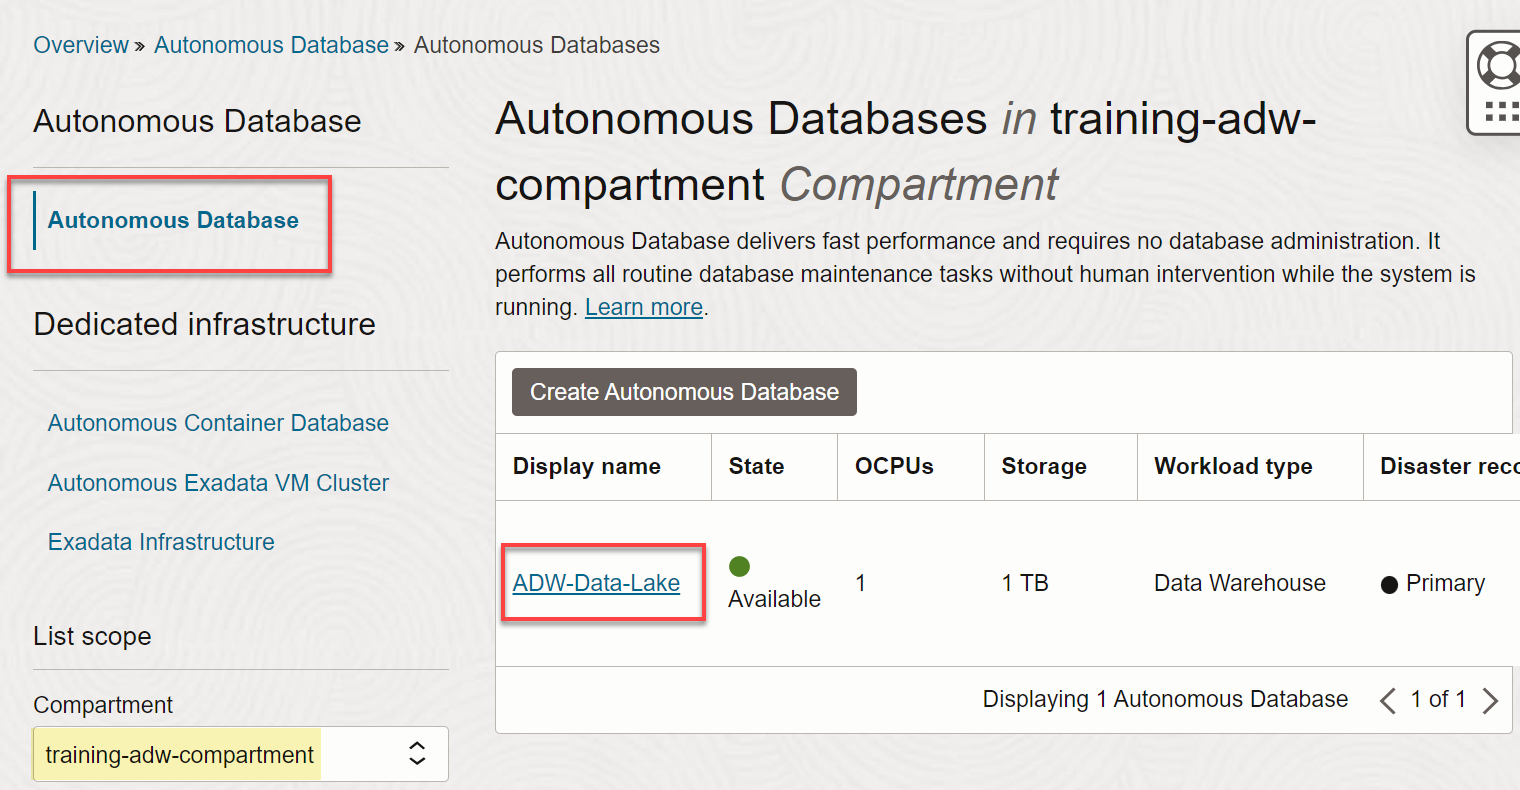
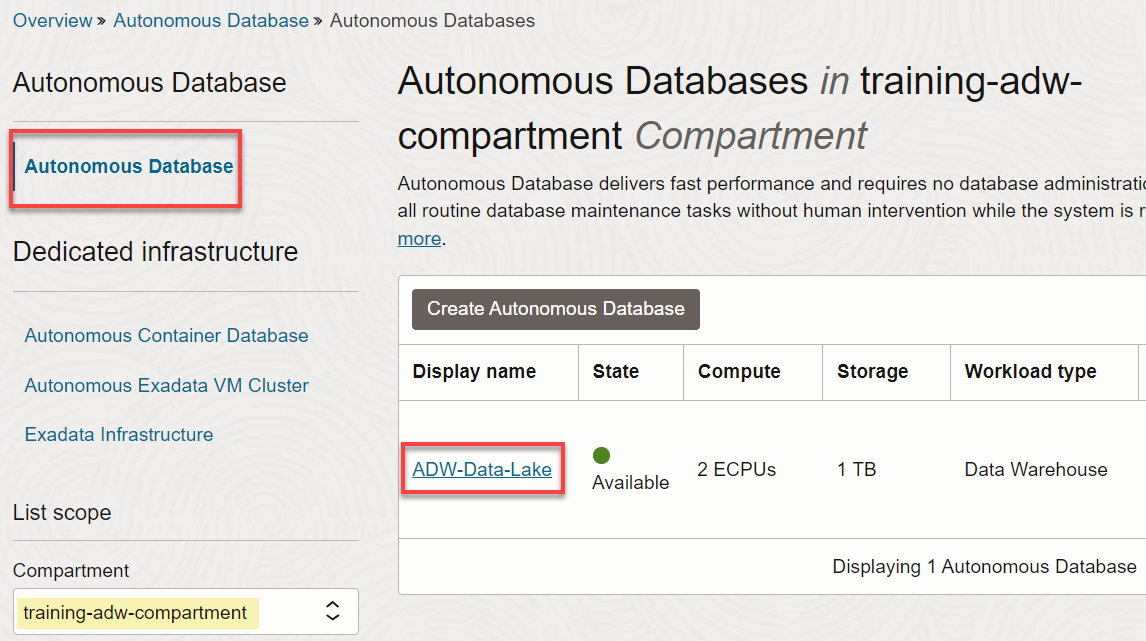
workshop # 3 ADB set up
and a couple of minor typos in workshops 1 and 2

diff --git a/shared/adw-data-lake/build-data-lake/setup-workshop-environment/setup-workshop-environment.md b/shared/adw-data-lake/build-data-lake/setup-workshop-environment/setup-workshop-environment.md
@@ -117,20 +117,37 @@ A Cloud Administrator can optionally create a compartment in your tenancy to hel
 
        ![The selected Shared Infrastructure option of the "Choose a deployment type" section is displayed and highlighted.](./images/adb-deployment-type.png " ")
 
-7. In the **Configure the database** section, specify the following:
+<!--- This is a comment. --->
+
+<!---7. In the **Configure the database** section, specify the following:
+
+       * **Always Free:** Disabled. If your Cloud Account is an Always Free account, you can select this option to create an Always Free autonomous database.
+       * **Choose database version:** **`19c`**.
+       * **OCPU count:** **`1`**.
+       * **OCPU auto scaling:** Select this checkbox. This allows the system to automatically use up to three times more CPU and IO resources to meet the workload demand.
+       * **Storage (TB):** **`1`** (TB).
+       * **Storage auto scaling:** Leave the checkbox unchecked.
+
+       ![The completed "Configure the database" section is displayed.](./images/adb-configure-db.png " ")
+
+       >**Note:** If you are using a Free Trial or Always Free account, and you want to use Always Free Resources, you need to be in a region where Always Free Resources are available. You can see your current default **region** in the top, right hand corner of the page. --->
+
+7. In the **Configure the database** section, accept the default selections as follows:
 
        * **Always Free:** An Always Free database is especially useful for development and trying new features. You can deploy an Always Free instance in an Always Free account or a paid account. The only option you can specify in an Always Free database is the database version.  For this lab, we recommend that you leave the **Always Free** option disabled unless you are in an Always Free account.
        * **Choose database version:** Accept the default selection.
        * **ECPU count:** **`2`**.
-       * **Complete auto scaling:** Leave the checkbox checked (default).
+       * **Compute auto scaling:** Leave the checkbox checked (default).
        * **Storage (TB):** **`1`** (TB).
        * **Storage auto scaling:** Leave the checkbox unchecked (default).
 
-       ![The completed "Configure the database" section is displayed.](./images/adb-configure-db.png " ")
+       ![The completed "Configure the database" section is displayed.](./images/adb-configure-db-ecpu.png " ")
 
-       >**Note:** If you are using a Free Trial or Always Free account, and you want to use Always Free Resources, you need to be in a region where Always Free Resources are available. You can see your current default **region** in the top, right hand corner of the page.
+8. In the **Backup retention** section, you can either accept the default value or specify your own preferred backup retention days value. Accept the default **60** days default value.
 
-8. In the **Create administrator credentials** section, specify the following:
+       ![The Backup retention section is displayed.](./images/backup-retention.png " ")
+
+9. In the **Create administrator credentials** section, specify the following:
 
        * **Username:** This read-only field displays the default administrator username, **`ADMIN`**.
        **Important:** Make a note of this _username_ as you will need it to perform later tasks.
@@ -140,25 +157,29 @@ A Cloud Administrator can optionally create a compartment in your tenancy to hel
 
        ![The completed "Create administrator credentials" section is displayed.](./images/adb-admin-credentials.png " ")
 
-9. In the **Choose network access** section, select the **Secure access from everywhere** option as the access type.
+10. In the **Choose network access** section, select the **Secure access from everywhere** option as the access type.
 
-    ![The selected "Secure access from everywhere" option of the "Choose network access" section is displayed and highlighted.](./images/adb-network-access.png " ")
+       ![The selected "Secure access from everywhere" option of the "Choose network access" section is displayed and highlighted.](./images/adb-network-access.png " ")
 
-10. In the **Choose a License and Oracle Database Edition** section, select the __Bring your own license (BYOL)__ option as the license type. The **Choose an Oracle Database Edition** section is displayed. Select the __Oracle Database Enterprise Edition (EE)__ option.
+11. In the **Choose a license and Oracle Database edition** section, accept the default selection, **This Database is provisioned with License included license type**.
 
-       ![The selected Bring Your Own License (BYOL) option of the "Choose a license type" section is displayed and highlighted. The Create Autonomous Database button is highlighted.](./images/adb-license-type.png " ")
+       ![Accept the default license selection.](./images/license-default.png " ")
 
-11. Click __Create Autonomous Database__.
+12. Click __Create Autonomous Database__.
 
-12. The **Autonomous Database Details** page is displayed. The status of your ADB instance is **PROVISIONING**.
+       ![Click create autonomous database.](./images/click-create-adb.png " ")
+
+13. The **Autonomous Database details** page is displayed. The status of your ADB instance is **PROVISIONING**.
 
     ![The breadcrumbs and PROVISIONING Status on the Autonomous Database Details page are highlighted.](./images/adw-provisioning.png " ")
 
-    In a few minutes, the instance status changes to **AVAILABLE**. At this point, your Autonomous Data Warehouse database instance is ready to use! Review your instance's details including its name, database version, OCPU count, and storage size.
+    A **Check database lifcycle state** informational box is displayed. You can navigate through this tour or choose to skip it. Click **Skip tour**. A **Skip guided tour** dialog box is displayed. Click **Skip**.
 
-    ![The breadcrumbs and AVAILABLE Status on the Autonomous Database Details page are highlighted. The Autonomous Database Information tab displays many details about your provisioned database.](./images/adb-provisioned.png " ")
+    In a few minutes, the instance status changes to **AVAILABLE**. At this point, your Autonomous Data Warehouse database instance is ready to use! Review your instance's details including its name, database version, ECPU count, and storage size.
 
-13. Click the **Autonomous Database** link in the breadcrumbs. The **Autonomous Database** page is displayed. The new Autonomous Database instance is displayed.
+    ![The breadcrumbs and AVAILABLE Status on the Autonomous Database Details page are highlighted. The Autonomous Database Information tab displays many details about your provisioned database.](./images/adw-provisioned.png " ")
+
+14. Click the **Autonomous Database** link in the breadcrumbs. The **Autonomous Database** page is displayed. The new Autonomous Database instance is displayed.
 
     ![The provisioned Autonomous Database instance is displayed on the Autonomous Databases page. The state of the instance is AVAILABLE.](./images/adb-page.png " ")
 
@@ -194,7 +215,7 @@ You may now proceed to the next lab.
 
 ## Acknowledgements
 * **Author:** Lauran Serhal, Consulting User Assistance Developer, Oracle Database and Big Data
-* **Last Updated By/Date:** Lauran Serhal, June 2023
+* **Last Updated By/Date:** Lauran Serhal, August 2023
 
 Data about movies in this workshop were sourced from Wikipedia.
 

diff --git a/shared/adw-data-lake/use-data-sharing-data-studio/setup-workshop-environment/setup-workshop-environment.md b/shared/adw-data-lake/use-data-sharing-data-studio/setup-workshop-environment/setup-workshop-environment.md
@@ -134,7 +134,7 @@ A Cloud Administrator can optionally create a compartment in your tenancy to hel
        * **Always Free:** An Always Free database is especially useful for development and trying new features. You can deploy an Always Free instance in an Always Free account or a paid account. The only option you can specify in an Always Free database is the database version.  For this lab, we recommend that you leave the **Always Free** option disabled unless you are in an Always Free account.
        * **Choose database version:** Accept the default selection.
        * **ECPU count:** **`2`**.
-       * **Complete auto scaling:** Leave the checkbox checked (default).
+       * **Compute auto scaling:** Leave the checkbox checked (default).
        * **Storage (TB):** **`1`** (TB).
        * **Storage auto scaling:** Leave the checkbox unchecked (default).
 

diff --git a/shared/adw-data-lake/use-data-sharing-plsql/setup-workshop-environment/setup-workshop-environment.md b/shared/adw-data-lake/use-data-sharing-plsql/setup-workshop-environment/setup-workshop-environment.md
@@ -134,7 +134,7 @@ A Cloud Administrator can optionally create a compartment in your tenancy to hel
        * **Always Free:** An Always Free database is especially useful for development and trying new features. You can deploy an Always Free instance in an Always Free account or a paid account. The only option you can specify in an Always Free database is the database version.  For this lab, we recommend that you leave the **Always Free** option disabled unless you are in an Always Free account.
        * **Choose database version:** Accept the default selection.
        * **ECPU count:** **`2`**.
-       * **Complete auto scaling:** Leave the checkbox checked (default).
+       * **Compute auto scaling:** Leave the checkbox checked (default).
        * **Storage (TB):** **`1`** (TB).
        * **Storage auto scaling:** Leave the checkbox unchecked (default).
 
